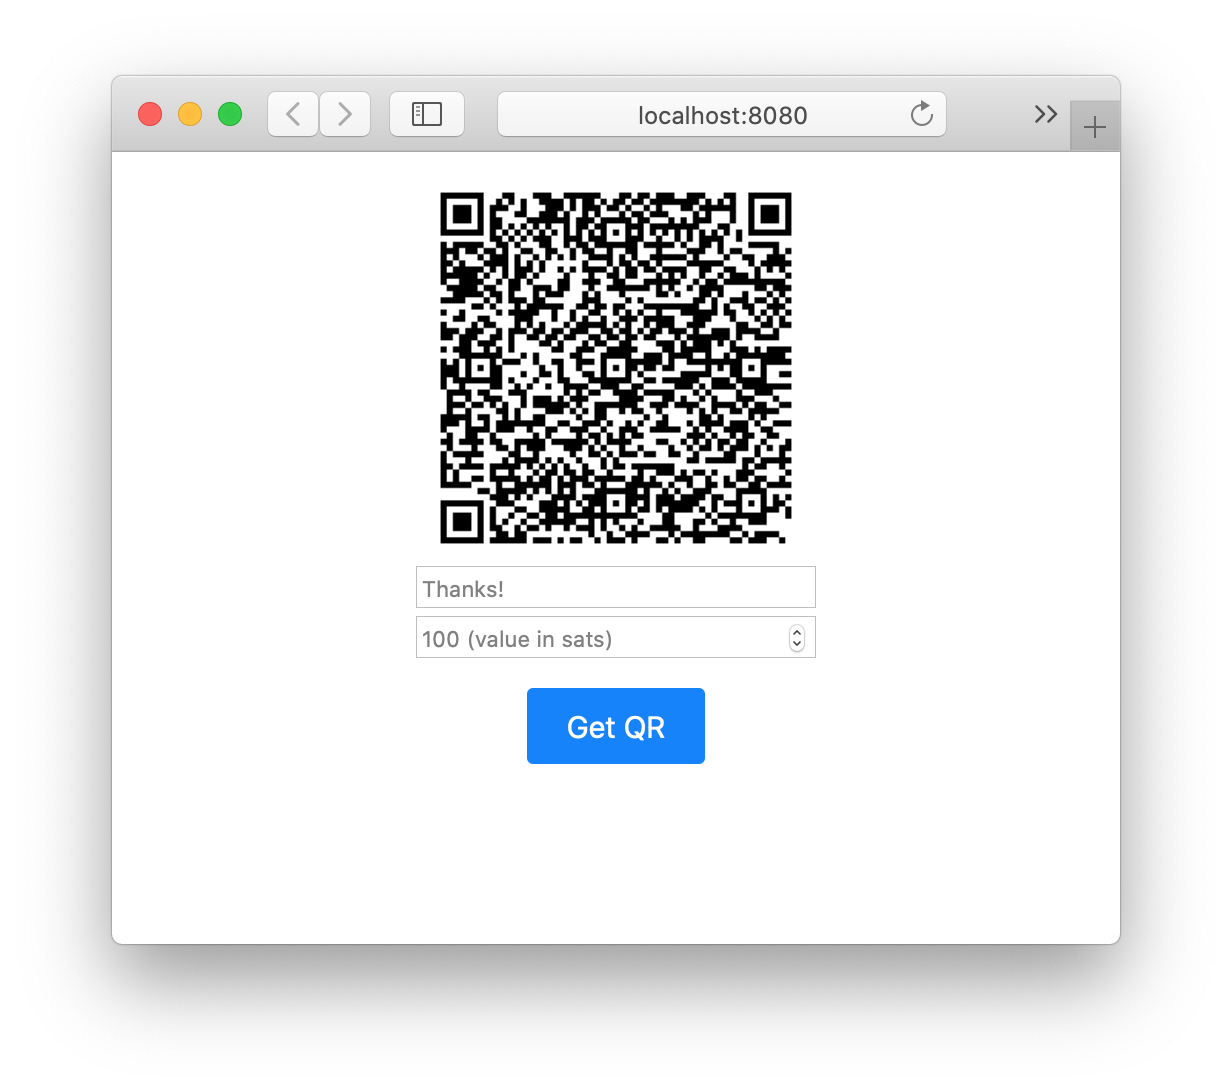
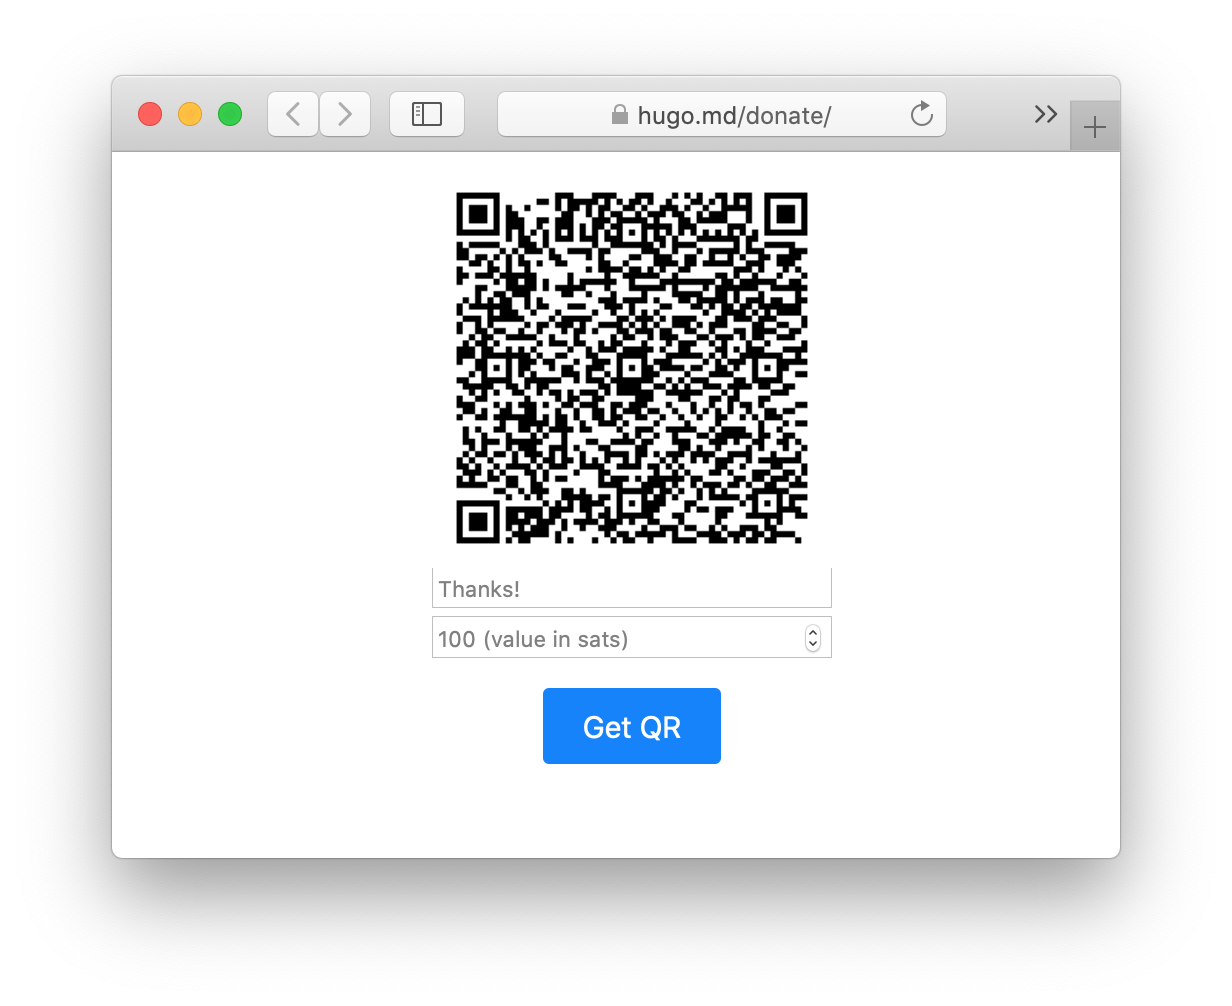
Improve README.md

Changed region(s): [[0.0925, 0.0616, 0.9253, 0.7704], [0.0925, 0.832, 0.9253, 0.8628]]

diff --git a/README.md b/README.md
@@ -2,4 +2,20 @@
 
 Hosts a tiny API that generates a QR code for a Bitcoin Lightning invoice.
 
+## Demo
+You can try it out here: https://hugo.md/donate/
+
 ![Screenshot](./screenshot.png)
+
+
+## Usage
+```
+docker run \
+  -p 8080:8080 \
+  -e LND_IP="10.0.0.1" \
+  -e LND_PORT="8080" \
+  -e MACAROON_BASE64="YOUR_MACAROON" \
+  docker.pkg.github.com/hugomd/lnd-invoice/lnd-invoice:latest
+```
+
+However GitHub Packages doesn't allow non-auth'd pulling, so I'll be pushing this to Docker Hub shortly for public usage.
